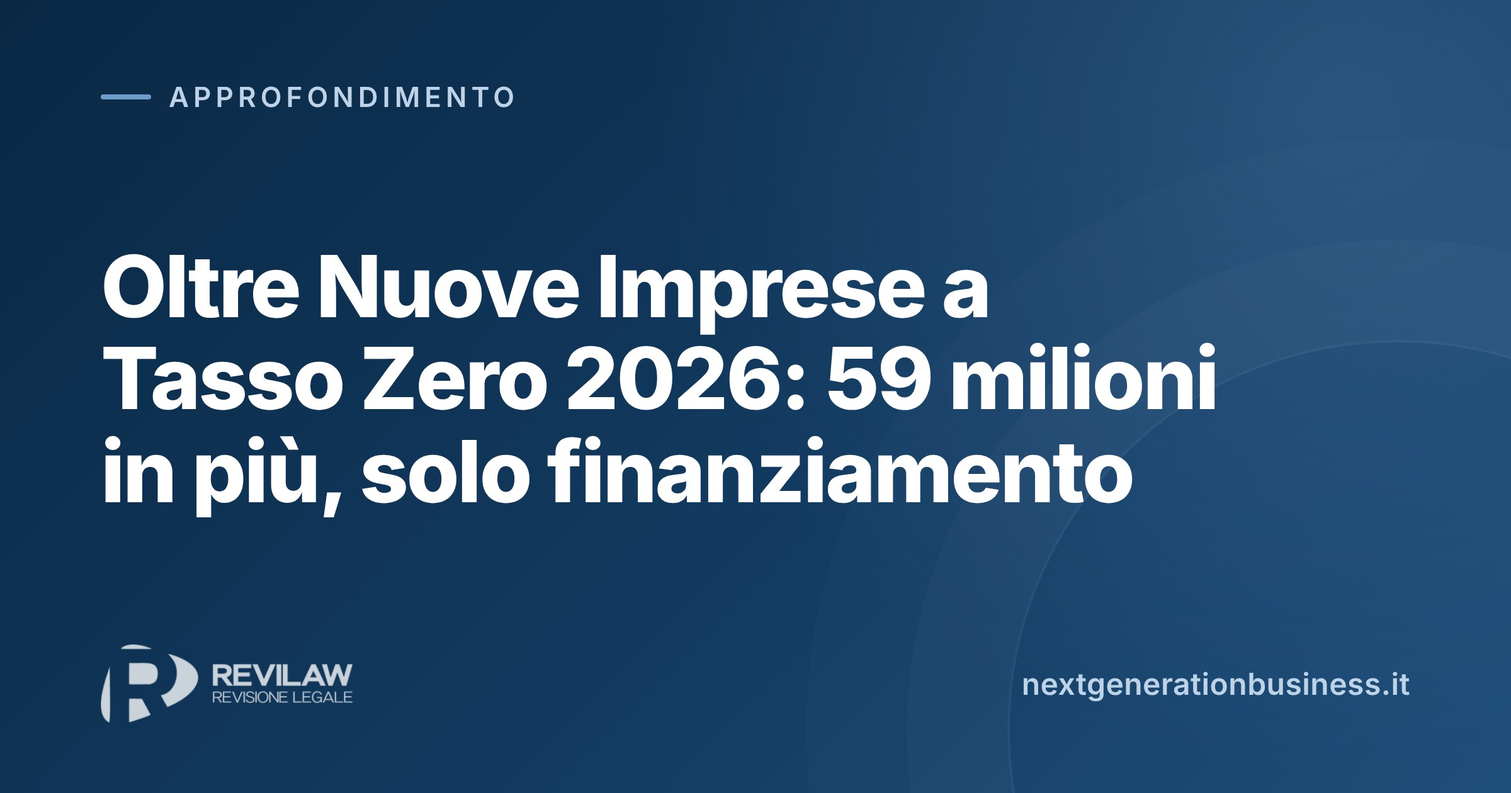
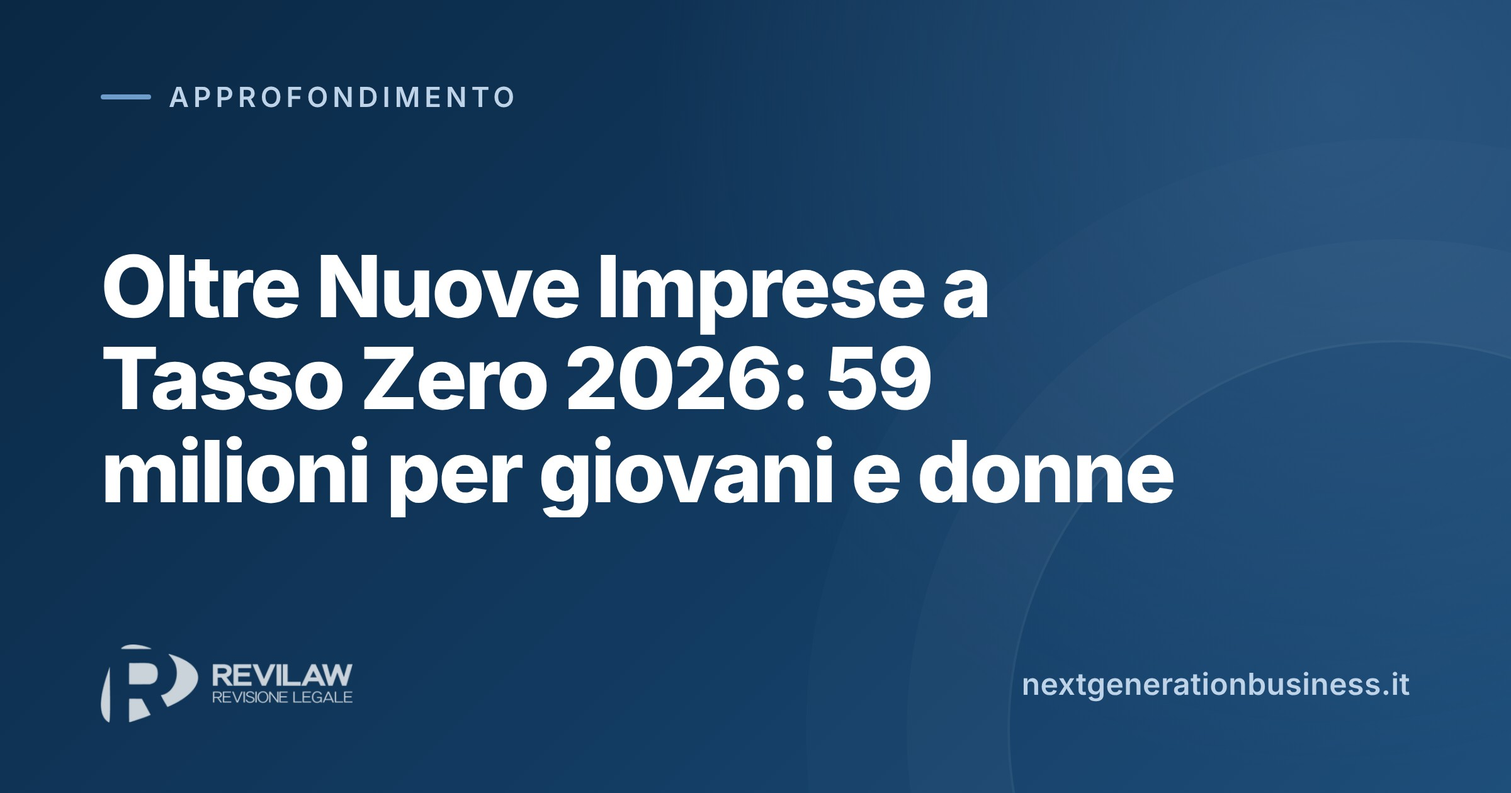
Nuove imprese a tasso zero: fondo perduto e finanziamento come nella comunicazione della misura (#336)
Su indicazione dello studio la pagina presenta il contributo a fondo
perduto fino al 20% (fino a 36 mesi) o al 15% (da 36 a 60 mesi), il
finanziamento a tasso zero per la parte restante fino al 90% e il
tutoraggio fino a 10.000 euro. Simulatore aggiornato: agevolazioni totali,
fondo perduto, finanziamento, quota propria e rata sul solo finanziamento.

Claude-Session: https://claude.ai/code/session_01NuT9L47JqPqb5h7wT782BG

Changed region(s): [[0.0625, 0.5262, 0.7812, 0.65], [0.625, 0.4333, 0.8125, 0.5262]]

diff --git a/nuove_imprese_tasso_zero/index.html b/nuove_imprese_tasso_zero/index.html
@@ -5,11 +5,11 @@
     <meta name="viewport" content="width=device-width, initial-scale=1.0">
 
     <!-- Primary Meta Tags -->
-    <title>Oltre Nuove Imprese a Tasso Zero 2026: 59 milioni in più, solo finanziamento | Revilaw</title>
+    <title>Oltre Nuove Imprese a Tasso Zero 2026: 59 milioni per giovani e donne | Revilaw</title>
     <script src="/assets/analytics.js" defer></script>
-    <meta name="title" content="Oltre Nuove Imprese a Tasso Zero 2026: 59 milioni in più, solo finanziamento | Revilaw">
-    <meta name="description" content="ON, Oltre Nuove Imprese a Tasso Zero: il MIMIT aggiunge 59 milioni, ma dal 1° luglio 2026 il fondo perduto è esaurito e resta il finanziamento a tasso zero fino al 90% delle spese. Requisiti per giovani e donne, attività, spese, domanda a sportello, simulatore e checklist.">
-    <meta name="keywords" content="Oltre Nuove Imprese a Tasso Zero, ON Invitalia, nuove imprese a tasso zero 2026, imprenditoria giovanile, imprenditoria femminile, finanziamento tasso zero, 59 milioni MIMIT, fondo perduto esaurito, Dlgs 185/2000, micro e piccole imprese, Revilaw, Next Generation Business">
+    <meta name="title" content="Oltre Nuove Imprese a Tasso Zero 2026: 59 milioni per giovani e donne | Revilaw">
+    <meta name="description" content="ON, Oltre Nuove Imprese a Tasso Zero: il MIMIT aggiunge 59 milioni. Finanziamento a tasso zero e contributo a fondo perduto fino al 90% delle spese per le micro e piccole imprese di giovani e donne. Requisiti, attività, spese, domanda a sportello, simulatore e checklist.">
+    <meta name="keywords" content="Oltre Nuove Imprese a Tasso Zero, ON Invitalia, nuove imprese a tasso zero 2026, imprenditoria giovanile, imprenditoria femminile, finanziamento tasso zero, 59 milioni MIMIT, fondo perduto, Dlgs 185/2000, micro e piccole imprese, Revilaw, Next Generation Business">
     <meta name="author" content="Revilaw S.p.A.">
     <meta name="robots" content="index, follow, max-image-preview:large, max-snippet:-1, max-video-preview:-1">
     <meta name="googlebot" content="index, follow">
@@ -25,21 +25,21 @@
     <meta property="og:type" content="article">
     <meta property="og:site_name" content="Next Generation Business">
     <meta property="og:url" content="https://nextgenerationbusiness.it/nuove_imprese_tasso_zero/">
-    <meta property="og:title" content="Oltre Nuove Imprese a Tasso Zero 2026: 59 milioni in più, solo finanziamento | Revilaw">
-    <meta property="og:description" content="Altri 59 milioni per le imprese di giovani e donne, ma dal 1° luglio 2026 il fondo perduto è esaurito: resta il finanziamento a tasso zero fino al 90% delle spese. Requisiti, spese e simulatore.">
-    <meta property="og:image" content="https://nextgenerationbusiness.it/assets/og/nuove_imprese_tasso_zero.jpg?v=3cae1b6819">
+    <meta property="og:title" content="Oltre Nuove Imprese a Tasso Zero 2026: 59 milioni per giovani e donne | Revilaw">
+    <meta property="og:description" content="Altri 59 milioni per le imprese di giovani e donne: finanziamento a tasso zero e fondo perduto fino al 20%, insieme fino al 90% delle spese. Requisiti, spese e simulatore.">
+    <meta property="og:image" content="https://nextgenerationbusiness.it/assets/og/nuove_imprese_tasso_zero.jpg?v=d974d470e5">
     <meta property="og:image:type" content="image/jpeg">
     <meta property="og:image:width" content="2400">
     <meta property="og:image:height" content="1260">
-    <meta property="og:image:alt" content="Oltre Nuove Imprese a Tasso Zero 2026: 59 milioni in più, solo finanziamento">
+    <meta property="og:image:alt" content="Oltre Nuove Imprese a Tasso Zero 2026: 59 milioni per giovani e donne">
     <meta property="og:locale" content="it_IT">
 
     <!-- Twitter Card -->
     <meta name="twitter:card" content="summary_large_image">
-    <meta name="twitter:title" content="Oltre Nuove Imprese a Tasso Zero 2026: 59 milioni in più, solo finanziamento | Revilaw">
-    <meta name="twitter:description" content="Altri 59 milioni per le imprese di giovani e donne, ma dal 1° luglio 2026 il fondo perduto è esaurito: resta il finanziamento a tasso zero fino al 90% delle spese. Requisiti, spese e simulatore.">
-    <meta name="twitter:image" content="https://nextgenerationbusiness.it/assets/og/nuove_imprese_tasso_zero.jpg?v=3cae1b6819">
-    <meta name="twitter:image:alt" content="Oltre Nuove Imprese a Tasso Zero 2026: 59 milioni in più, solo finanziamento">
+    <meta name="twitter:title" content="Oltre Nuove Imprese a Tasso Zero 2026: 59 milioni per giovani e donne | Revilaw">
+    <meta name="twitter:description" content="Altri 59 milioni per le imprese di giovani e donne: finanziamento a tasso zero e fondo perduto fino al 20%, insieme fino al 90% delle spese. Requisiti, spese e simulatore.">
+    <meta name="twitter:image" content="https://nextgenerationbusiness.it/assets/og/nuove_imprese_tasso_zero.jpg?v=d974d470e5">
+    <meta name="twitter:image:alt" content="Oltre Nuove Imprese a Tasso Zero 2026: 59 milioni per giovani e donne">
 
     <!-- Styles / Fonts -->
     <link rel="stylesheet" href="../zls_zes/style.css">
@@ -154,8 +154,8 @@
             {
                 "@type": "Article",
                 "@id": "https://nextgenerationbusiness.it/nuove_imprese_tasso_zero/#article",
-                "headline": "Oltre Nuove Imprese a Tasso Zero 2026: 59 milioni in più, ma dal 1° luglio solo finanziamento",
-                "description": "Requisiti, attività ammesse, linee di finanziamento, spese e domanda a sportello di ON, Oltre Nuove Imprese a Tasso Zero, dopo il rifinanziamento da 59 milioni e lo stop al fondo perduto.",
+                "headline": "Oltre Nuove Imprese a Tasso Zero 2026: 59 milioni per le imprese di giovani e donne",
+                "description": "Requisiti, attività ammesse, linee di finanziamento, spese e domanda a sportello di ON, Oltre Nuove Imprese a Tasso Zero, dopo il rifinanziamento da 59 milioni.",
                 "image": "https://nextgenerationbusiness.it/assets/og-revilaw-1200x630.jpg",
                 "inLanguage": "it-IT",
                 "author": { "@type": "Organization", "name": "Revilaw S.p.A.", "url": "https://www.revilaw.it" },
@@ -214,12 +214,12 @@
         <div class="hero-bg-overlay"></div>
         <div class="container hero-content">
             <div class="hero-badge">Finanza agevolata, imprenditoria giovanile e femminile</div>
-            <h1>Oltre Nuove Imprese a Tasso Zero<br><span class="text-accent">59 milioni in più, solo finanziamento</span></h1>
+            <h1>Oltre Nuove Imprese a Tasso Zero<br><span class="text-accent">59 milioni per giovani e donne</span></h1>
             <p class="hero-subtitle">
                 Il Mi&shy;ni&shy;ste&shy;ro delle Im&shy;pre&shy;se e del Made in Italy ha ag&shy;giun&shy;to 59 mi&shy;lio&shy;ni di euro alla mi&shy;su&shy;ra che so&shy;stie&shy;ne
-                le micro e pic&shy;co&shy;le im&shy;pre&shy;se di <strong>gio&shy;va&shy;ni tra 18 e 35 anni e di donne</strong>. C'è però una no&shy;vi&shy;tà
-                che molte co&shy;mu&shy;ni&shy;ca&shy;zio&shy;ni non ri&shy;por&shy;ta&shy;no: dal 1° lu&shy;glio 2026 la quota a fondo per&shy;du&shy;to è esau&shy;ri&shy;ta e le nuove
-                do&shy;man&shy;de ot&shy;ten&shy;go&shy;no <strong>solo il fi&shy;nan&shy;zia&shy;men&shy;to a tasso zero</strong>, fino al 90% delle spese.
+                le micro e pic&shy;co&shy;le im&shy;pre&shy;se di <strong>gio&shy;va&shy;ni tra 18 e 35 anni e di donne</strong>. Fi&shy;nan&shy;zia&shy;men&shy;to a tasso
+                zero e <strong>con&shy;tri&shy;bu&shy;to a fondo per&shy;du&shy;to</strong> co&shy;pro&shy;no in&shy;sie&shy;me fino al 90% delle spese, per av&shy;via&shy;re
+                una nuova im&shy;pre&shy;sa o far cre&shy;sce&shy;re quel&shy;la che c'è.
             </p>
             <div class="hero-actions">
                 <a href="#novita" class="btn btn-primary">Leggi l'approfondimento</a>
@@ -233,12 +233,12 @@
                 <div class="stat-divider"></div>
                 <div class="stat">
                     <span class="stat-number">90%</span>
-                    <span class="stat-label">Spese coperte dal finanziamento</span>
+                    <span class="stat-label">Spese coperte dalle agevolazioni</span>
                 </div>
                 <div class="stat-divider"></div>
                 <div class="stat">
-                    <span class="stat-number">0%</span>
-                    <span class="stat-label">Tasso, rimborso in 10 anni</span>
+                    <span class="stat-number">20%</span>
+                    <span class="stat-label">Fondo perduto per le imprese più giovani</span>
                 </div>
             </div>
         </div>
@@ -252,7 +252,7 @@
                     <span class="indice-etichetta">In sintesi</span>
                     <ul class="indice-punti">
                         <li>Un de&shy;cre&shy;to del 16 giu&shy;gno 2026, pub&shy;bli&shy;ca&shy;to il 12 ot&shy;to&shy;bre, as&shy;se&shy;gna <strong>59 mi&shy;lio&shy;ni</strong> in più alla mi&shy;su&shy;ra ge&shy;sti&shy;ta da In&shy;vi&shy;ta&shy;lia.</li>
-                        <li>Per le do&shy;man&shy;de pre&shy;sen&shy;ta&shy;te <strong>dal 1° lu&shy;glio 2026</strong> non c'è più fondo per&shy;du&shy;to: resta il fi&shy;nan&shy;zia&shy;men&shy;to a tasso zero, fino al 90% delle spese, da re&shy;sti&shy;tui&shy;re in dieci anni.</li>
+                        <li>Le age&shy;vo&shy;la&shy;zio&shy;ni co&shy;pro&shy;no fino al <strong>90% delle spese</strong>: un con&shy;tri&shy;bu&shy;to a fondo per&shy;du&shy;to fino al 20% o al 15%, e per il resto un fi&shy;nan&shy;zia&shy;men&shy;to a tasso zero da re&shy;sti&shy;tui&shy;re in dieci anni.</li>
                         <li>Pos&shy;so&shy;no par&shy;te&shy;ci&shy;pa&shy;re micro e pic&shy;co&shy;le im&shy;pre&shy;se con <strong>meno di 60 mesi di vita</strong>, in mag&shy;gio&shy;ran&shy;za di gio&shy;va&shy;ni tra 18 e 35 anni o di donne, e chi vuole co&shy;sti&shy;tui&shy;re una so&shy;cie&shy;tà.</li>
                         <li>Pro&shy;gram&shy;mi fino a <strong>1,5 mi&shy;lio&shy;ni</strong> per le im&shy;pre&shy;se più gio&shy;va&shy;ni e fino a <strong>3 mi&shy;lio&shy;ni</strong> per quel&shy;le tra 36 e 60 mesi, da com&shy;ple&shy;ta&shy;re in 24 mesi.</li>
                         <li>Lo spor&shy;tel&shy;lo va&shy;lu&shy;ta le do&shy;man&shy;de in or&shy;di&shy;ne di ar&shy;ri&shy;vo: conta pre&shy;sen&shy;tar&shy;si pre&shy;sto, con un piano d'im&shy;pre&shy;sa già so&shy;li&shy;do.</li>
@@ -261,7 +261,7 @@
                 <nav class="indice-blocco" aria-label="Sommario della pagina">
                     <span class="indice-etichetta">In questa pagina</span>
                     <ol class="indice-voci">
-                        <li><a href="#novita">Che cosa è cambiato</a></li>
+                        <li><a href="#novita">Le nuove risorse</a></li>
                         <li><a href="#beneficiari">Chi può partecipare</a></li>
                         <li><a href="#attivita">Che cosa si finanzia</a></li>
                         <li><a href="#linee">Le due linee e le spese</a></li>
@@ -283,11 +283,11 @@
         <div class="container">
             <div class="section-header">
                 <span class="section-tag">1. Le novità</span>
-                <h2>Più risorse, <span class="text-accent">ma senza fondo perduto</span></h2>
+                <h2>59 milioni in più <span class="text-accent">per tenere aperto lo sportello</span></h2>
                 <p class="section-desc">
                     Nel 2026 le do&shy;man&shy;de sono cre&shy;sciu&shy;te di oltre il 60 per cento ri&shy;spet&shy;to all'anno pre&shy;ce&shy;den&shy;te, fino a circa
-                    380 al mese. Le ri&shy;sor&shy;se non ba&shy;sta&shy;va&shy;no più: prima si è esau&shy;ri&shy;ta la quota a fondo per&shy;du&shy;to, poi è ar&shy;ri&shy;va&shy;to
-                    il ri&shy;fi&shy;nan&shy;zia&shy;men&shy;to per te&shy;ne&shy;re aper&shy;to lo spor&shy;tel&shy;lo.
+                    380 al mese. Le ri&shy;sor&shy;se di&shy;spo&shy;ni&shy;bi&shy;li non ba&shy;sta&shy;va&shy;no più a so&shy;ste&shy;ne&shy;re que&shy;sto ritmo: il Mi&shy;ni&shy;ste&shy;ro ha de&shy;ci&shy;so
+                    di ri&shy;fi&shy;nan&shy;zia&shy;re la mi&shy;su&shy;ra.
                 </p>
             </div>
 
@@ -298,28 +298,27 @@
                     <p>Il MIMIT firma il de&shy;cre&shy;to che as&shy;se&shy;gna 59 mi&shy;lio&shy;ni ag&shy;giun&shy;ti&shy;vi dal Fondo per la cre&shy;sci&shy;ta so&shy;ste&shy;ni&shy;bi&shy;le, at&shy;tin&shy;gen&shy;do agli avan&shy;zi del fondo 394/81 ge&shy;sti&shy;to da Si&shy;me&shy;st.</p>
                 </article>
                 <article class="crono-tappa">
-                    <span class="crono-data">30 giugno 2026</span>
-                    <span class="crono-stato">L'avviso</span>
-                    <p>In&shy;vi&shy;ta&shy;lia co&shy;mu&shy;ni&shy;ca l'esau&shy;ri&shy;men&shy;to delle ri&shy;sor&shy;se de&shy;sti&shy;na&shy;te alla quota a fondo per&shy;du&shy;to.</p>
-                </article>
-                <article class="crono-tappa is-prossima">
-                    <span class="crono-data">1° luglio 2026</span>
-                    <span class="crono-stato">Solo finanziamento</span>
-                    <p>Per le do&shy;man&shy;de pre&shy;sen&shy;ta&shy;te da que&shy;sta data le age&shy;vo&shy;la&shy;zio&shy;ni sono con&shy;ces&shy;se sol&shy;tan&shy;to come fi&shy;nan&shy;zia&shy;men&shy;to a tasso zero.</p>
-                </article>
-                <article class="crono-tappa">
                     <span class="crono-data">12 ottobre 2026</span>
                     <span class="crono-stato">La pubblicazione</span>
-                    <p>Il de&shy;cre&shy;to viene pub&shy;bli&shy;ca&shy;to. Non cam&shy;bia le re&shy;go&shy;le della mi&shy;su&shy;ra: au&shy;men&shy;ta solo le ri&shy;sor&shy;se dello spor&shy;tel&shy;lo.</p>
+                    <p>Il de&shy;cre&shy;to viene pub&shy;bli&shy;ca&shy;to. Le re&shy;go&shy;le della mi&shy;su&shy;ra re&shy;sta&shy;no le stes&shy;se: au&shy;men&shy;ta&shy;no le ri&shy;sor&shy;se dello spor&shy;tel&shy;lo ge&shy;sti&shy;to da In&shy;vi&shy;ta&shy;lia.</p>
+                </article>
+                <article class="crono-tappa is-prossima">
+                    <span class="crono-data">Oggi</span>
+                    <span class="crono-stato">Sportello aperto</span>
+                    <p>Le do&shy;man&shy;de si pre&shy;sen&shy;ta&shy;no on&shy;li&shy;ne e ven&shy;go&shy;no esa&shy;mi&shy;na&shy;te in or&shy;di&shy;ne di ar&shy;ri&shy;vo, senza gra&shy;dua&shy;to&shy;rie né sca&shy;den&shy;ze fisse.</p>
+                </article>
+                <article class="crono-tappa">
+                    <span class="crono-data">Fino a esaurimento</span>
+                    <span class="crono-stato">Le risorse</span>
+                    <p>Lo spor&shy;tel&shy;lo resta aper&shy;to fin&shy;ché ci sono fondi. Con circa 380 do&shy;man&shy;de al mese, chi è pron&shy;to ha in&shy;te&shy;res&shy;se a pre&shy;sen&shy;tar&shy;si pre&shy;sto.</p>
                 </article>
             </div>
 
             <div class="highlight-box">
                 <p>
-                    <strong>I conti vanno ri&shy;fat&shy;ti.</strong> Molte co&shy;mu&shy;ni&shy;ca&shy;zio&shy;ni par&shy;la&shy;no an&shy;co&shy;ra di un fondo per&shy;du&shy;to del 20 o
-                    del 15 per cento. Per le nuove do&shy;man&shy;de quel&shy;la parte non c'è: la quota che prima ve&shy;ni&shy;va re&shy;ga&shy;la&shy;ta oggi va
-                    re&shy;sti&shy;tui&shy;ta. Il fi&shy;nan&shy;zia&shy;men&shy;to resta con&shy;ve&shy;nien&shy;te, per&shy;ché senza in&shy;te&shy;res&shy;si, ma il piano d'im&shy;pre&shy;sa deve
-                    reg&shy;ge&shy;re l'in&shy;te&shy;ro rim&shy;bor&shy;so.
+                    <strong>Due age&shy;vo&shy;la&shy;zio&shy;ni in una.</strong> Una parte delle spese è co&shy;per&shy;ta da un con&shy;tri&shy;bu&shy;to a fondo
+                    per&shy;du&shy;to, che non si re&shy;sti&shy;tui&shy;sce, e il resto da un fi&shy;nan&shy;zia&shy;men&shy;to senza in&shy;te&shy;res&shy;si in dieci anni. In&shy;sie&shy;me
+                    ar&shy;ri&shy;va&shy;no al 90 per cento del pro&shy;gram&shy;ma: ai soci resta da co&shy;pri&shy;re al&shy;me&shy;no il 10 per cento.
                 </p>
             </div>
         </div>
@@ -419,7 +418,7 @@
                 <span class="section-tag">4. Le due linee</span>
                 <h2>Fino a 36 mesi <span class="text-accent">o da 36 a 60 mesi</span></h2>
                 <p class="section-desc">
-                    Mas&shy;si&shy;ma&shy;li e spese am&shy;mes&shy;se cam&shy;bia&shy;no a se&shy;con&shy;da di quan&shy;to è gio&shy;va&shy;ne l'im&shy;pre&shy;sa. Il fi&shy;nan&shy;zia&shy;men&shy;to è
+                    Mas&shy;si&shy;ma&shy;li, quota a fondo per&shy;du&shy;to e spese am&shy;mes&shy;se cam&shy;bia&shy;no a se&shy;con&shy;da di quan&shy;to è gio&shy;va&shy;ne l'im&shy;pre&shy;sa. Il fi&shy;nan&shy;zia&shy;men&shy;to è
                     senza in&shy;te&shy;res&shy;si, si re&shy;sti&shy;tui&shy;sce in dieci anni con rate se&shy;me&shy;stra&shy;li e il pro&shy;gram&shy;ma va com&shy;ple&shy;ta&shy;to entro
                     24 mesi dalla firma del con&shy;trat&shy;to.
                 </p>
@@ -438,13 +437,13 @@
                 </div>
                 <div class="tabella-riga" role="row">
                     <div class="tabella-voce" role="rowheader">Finanziamento a tasso zero</div>
-                    <div data-label="Da costituire o fino a 36 mesi" role="cell">Fino al 90% delle spese am&shy;mes&shy;se, in dieci anni.</div>
-                    <div data-label="Da 36 a 60 mesi" role="cell">Fino al 90% delle spese am&shy;mes&shy;se, in dieci anni.</div>
+                    <div data-label="Da costituire o fino a 36 mesi" role="cell">Copre la parte re&shy;stan&shy;te, fino al 90% com&shy;ples&shy;si&shy;vo, in dieci anni.</div>
+                    <div data-label="Da 36 a 60 mesi" role="cell">Copre la parte re&shy;stan&shy;te, fino al 90% com&shy;ples&shy;si&shy;vo, in dieci anni.</div>
                 </div>
                 <div class="tabella-riga" role="row">
-                    <div class="tabella-voce" role="rowheader">Fondo perduto fino al 30 giugno 2026</div>
-                    <div data-label="Da costituire o fino a 36 mesi" role="cell">Fino al 20% delle spese, oggi non più di&shy;spo&shy;ni&shy;bi&shy;le.</div>
-                    <div data-label="Da 36 a 60 mesi" role="cell">Fino al 15% delle spese, oggi non più di&shy;spo&shy;ni&shy;bi&shy;le.</div>
+                    <div class="tabella-voce" role="rowheader">Contributo a fondo perduto</div>
+                    <div data-label="Da costituire o fino a 36 mesi" role="cell">Fino al 20% delle spese am&shy;mes&shy;se.</div>
+                    <div data-label="Da 36 a 60 mesi" role="cell">Fino al 15% delle spese am&shy;mes&shy;se.</div>
                 </div>
                 <div class="tabella-riga" role="row">
                     <div class="tabella-voce" role="rowheader">Spese tipiche</div>
@@ -463,9 +462,9 @@
 
             <div class="detail-block">
                 <p>
-                    <strong>Il tu&shy;to&shy;rag&shy;gio.</strong> La mi&shy;su&shy;ra pre&shy;ve&shy;de&shy;va anche un con&shy;tri&shy;bu&shy;to a fondo per&shy;du&shy;to fino a 10.000
-                    euro, in re&shy;gi&shy;me de mi&shy;ni&shy;mis, per ser&shy;vi&shy;zi di tu&shy;to&shy;rag&shy;gio tec&shy;ni&shy;co e ge&shy;stio&shy;na&shy;le. Poi&shy;ché anche que&shy;sto con&shy;tri&shy;bu&shy;to è a fondo per&shy;du&shy;to, per le do&shy;man&shy;de pre&shy;sen&shy;ta&shy;te dopo il 1° lu&shy;glio 2026 la sua di&shy;spo&shy;ni&shy;bi&shy;li&shy;tà va ve&shy;ri&shy;fi&shy;ca&shy;ta con
-                    In&shy;vi&shy;ta&shy;lia caso per caso.
+                    <strong>In più, il tu&shy;to&shy;rag&shy;gio.</strong> Alle due age&shy;vo&shy;la&shy;zio&shy;ni si ag&shy;giun&shy;ge un con&shy;tri&shy;bu&shy;to a fondo per&shy;du&shy;to
+                    fino a 10.000 euro, in re&shy;gi&shy;me de mi&shy;ni&shy;mis, per ser&shy;vi&shy;zi di tu&shy;to&shy;rag&shy;gio tec&shy;ni&shy;co e ge&shy;stio&shy;na&shy;le: un
+                    af&shy;fian&shy;ca&shy;men&shy;to utile so&shy;prat&shy;tut&shy;to nei primi anni di at&shy;ti&shy;vi&shy;tà.
                 </p>
             </div>
         </div>
@@ -478,9 +477,8 @@
                 <span class="section-tag">5. Il simulatore</span>
                 <h2>Quanto potete ottenere <span class="text-accent">e quanto restituire</span></h2>
                 <p class="section-desc">
-                    In&shy;di&shy;ca&shy;te l'età dell'im&shy;pre&shy;sa e il va&shy;lo&shy;re del pro&shy;gram&shy;ma di spesa. Il cal&shy;co&shy;lo ap&shy;pli&shy;ca le re&shy;go&shy;le in vi&shy;go&shy;re
-                    per le do&shy;man&shy;de pre&shy;sen&shy;ta&shy;te dal 1° lu&shy;glio 2026 e mo&shy;stra che cosa sa&shy;reb&shy;be stato a fondo per&shy;du&shy;to con le
-                    re&shy;go&shy;le pre&shy;ce&shy;den&shy;ti.
+                    In&shy;di&shy;ca&shy;te l'età dell'im&shy;pre&shy;sa e il va&shy;lo&shy;re del pro&shy;gram&shy;ma di spesa. Il cal&shy;co&shy;lo di&shy;vi&shy;de le age&shy;vo&shy;la&shy;zio&shy;ni tra
+                    con&shy;tri&shy;bu&shy;to a fondo per&shy;du&shy;to e fi&shy;nan&shy;zia&shy;men&shy;to a tasso zero, e stima la rata da re&shy;sti&shy;tui&shy;re.
                 </p>
             </div>
 
@@ -505,13 +503,14 @@
                 </div>
                 <div class="sim-output" aria-live="polite">
                     <div class="sim-output-inner">
-                        <span class="sim-totale-label">Finanziamento a tasso zero</span>
-                        <span class="sim-totale" id="simFin">0 euro</span>
+                        <span class="sim-totale-label">Agevolazioni totali</span>
+                        <span class="sim-totale" id="simTot">0 euro</span>
                         <div class="sim-barra" aria-hidden="true"><span id="simBar"></span></div>
-                        <div class="sim-riga"><span>Spese considerate</span><strong id="simAmm">0 euro</strong></div>
+                        <div class="sim-riga"><span>Contributo a fondo perduto</span><strong id="simFp">0 euro</strong></div>
+                        <div class="sim-riga"><span>Finanziamento a tasso zero</span><strong id="simFin">0 euro</strong></div>
                         <div class="sim-riga"><span>A carico dell'impresa</span><strong id="simPropri">0 euro</strong></div>
                         <div class="sim-riga"><span>Rata semestrale per 20 rate</span><strong id="simRata">0 euro</strong></div>
-                        <div class="sim-riga"><span>Fondo perduto fino al 30 giugno</span><strong id="simFp">0 euro</strong></div>
+                        <div class="sim-riga"><span>Tutoraggio a fondo perduto</span><strong>fino a 10.000 euro</strong></div>
                         <div class="sim-esito" id="simEsito"></div>
                         <p class="sim-avviso">Stima in&shy;di&shy;ca&shy;ti&shy;va: l'im&shy;por&shy;to ef&shy;fet&shy;ti&shy;vo di&shy;pen&shy;de dalle spese ri&shy;co&shy;no&shy;sciu&shy;te am&shy;mis&shy;si&shy;bi&shy;li da In&shy;vi&shy;ta&shy;lia, dalla va&shy;lu&shy;ta&shy;zio&shy;ne del piano d'im&shy;pre&shy;sa e dalle ri&shy;sor&shy;se di&shy;spo&shy;ni&shy;bi&shy;li allo spor&shy;tel&shy;lo.</p>
                     </div>
@@ -594,7 +593,7 @@
                     <span class="ck-gruppo">Sostenibilità</span>
                     <label class="ck-voce"><input type="checkbox" data-area="Sostenibilità" data-voce="Piano d'impresa completo"><span><strong>Piano.</strong> Il piano d'im&shy;pre&shy;sa de&shy;scri&shy;ve mer&shy;ca&shy;to, soci, ri&shy;ca&shy;vi at&shy;te&shy;si e or&shy;ga&shy;niz&shy;za&shy;zio&shy;ne.</span></label>
                     <label class="ck-voce"><input type="checkbox" data-area="Sostenibilità" data-voce="Quota del 10% coperta con mezzi propri"><span><strong>Mezzi pro&shy;pri.</strong> Al&shy;me&shy;no il 10 per cento delle spese è co&shy;per&shy;to con ri&shy;sor&shy;se dei soci.</span></label>
-                    <label class="ck-voce"><input type="checkbox" data-area="Sostenibilità" data-voce="Rate sostenibili senza fondo perduto"><span><strong>Rim&shy;bor&shy;so.</strong> I flus&shy;si di cassa co&shy;pro&shy;no tutte le rate, senza con&shy;ta&shy;re su un fondo per&shy;du&shy;to.</span></label>
+                    <label class="ck-voce"><input type="checkbox" data-area="Sostenibilità" data-voce="Rate del finanziamento sostenibili"><span><strong>Rim&shy;bor&shy;so.</strong> I flus&shy;si di cassa co&shy;pro&shy;no tutte le rate del fi&shy;nan&shy;zia&shy;men&shy;to nei dieci anni.</span></label>
                     <label class="ck-voce"><input type="checkbox" data-area="Sostenibilità" data-voce="Liquidità per anticipare le spese"><span><strong>Li&shy;qui&shy;di&shy;tà.</strong> L'im&shy;pre&shy;sa può an&shy;ti&shy;ci&shy;pa&shy;re le spese in at&shy;te&shy;sa delle ero&shy;ga&shy;zio&shy;ni.</span></label>
                 </div>
                 <div class="ck-esito" aria-live="polite">
@@ -635,12 +634,12 @@
             <div class="faq-list">
                 <div class="faq-item">
                     <button class="faq-question" type="button">
-                        <span>Con i 59 milioni torna il fondo perduto?</span>
+                        <span>Quanta parte è a fondo perduto?</span>
                         <svg viewBox="0 0 24 24" fill="none" stroke="currentColor" stroke-width="2" stroke-linecap="round" stroke-linejoin="round"><polyline points="6 9 12 15 18 9"></polyline></svg>
                     </button>
                     <div class="faq-answer">
                         <div class="faq-answer-inner">
-                            Allo stato no. Il de&shy;cre&shy;to au&shy;men&shy;ta le ri&shy;sor&shy;se dello spor&shy;tel&shy;lo ma non mo&shy;di&shy;fi&shy;ca le re&shy;go&shy;le: per le do&shy;man&shy;de pre&shy;sen&shy;ta&shy;te dal 1° lu&shy;glio 2026 In&shy;vi&shy;ta&shy;lia con&shy;ce&shy;de sol&shy;tan&shy;to il fi&shy;nan&shy;zia&shy;men&shy;to a tasso zero. Even&shy;tua&shy;li nuove ri&shy;sor&shy;se per il fondo per&shy;du&shy;to ri&shy;chie&shy;de&shy;reb&shy;be&shy;ro un prov&shy;ve&shy;di&shy;men&shy;to spe&shy;ci&shy;fi&shy;co.
+                            Fino al 20 per cento delle spese am&shy;mes&shy;se per le im&shy;pre&shy;se da co&shy;sti&shy;tui&shy;re o con meno di 36 mesi, e fino al 15 per cento per quel&shy;le tra 36 e 60 mesi. Il resto, fino al 90 per cento com&shy;ples&shy;si&shy;vo, è un fi&shy;nan&shy;zia&shy;men&shy;to a tasso zero. In più c'è un con&shy;tri&shy;bu&shy;to fino a 10.000 euro per il tu&shy;to&shy;rag&shy;gio.
                         </div>
                     </div>
                 </div>
@@ -662,7 +661,7 @@
                     </button>
                     <div class="faq-answer">
                         <div class="faq-answer-inner">
-                            Si re&shy;sti&shy;tui&shy;sce esat&shy;ta&shy;men&shy;te la somma ri&shy;ce&shy;vu&shy;ta, senza in&shy;te&shy;res&shy;si, in dieci anni con rate se&shy;me&shy;stra&shy;li. Su un fi&shy;nan&shy;zia&shy;men&shy;to di 270.000 euro, per esem&shy;pio, ogni rata vale 13.500 euro. Il si&shy;mu&shy;la&shy;to&shy;re in que&shy;sta pa&shy;gi&shy;na fa il cal&shy;co&shy;lo sul vo&shy;stro pro&shy;gram&shy;ma.
+                            Va re&shy;sti&shy;tui&shy;to sol&shy;tan&shy;to il fi&shy;nan&shy;zia&shy;men&shy;to, senza in&shy;te&shy;res&shy;si, in dieci anni con rate se&shy;me&shy;stra&shy;li, men&shy;tre il con&shy;tri&shy;bu&shy;to a fondo per&shy;du&shy;to resta all'im&shy;pre&shy;sa. Con un pro&shy;gram&shy;ma di 300.000 euro di un'im&shy;pre&shy;sa gio&shy;va&shy;ne il fi&shy;nan&shy;zia&shy;men&shy;to è di 210.000 euro e ogni rata vale 10.500 euro. Il si&shy;mu&shy;la&shy;to&shy;re in que&shy;sta pa&shy;gi&shy;na fa il cal&shy;co&shy;lo sul vo&shy;stro pro&shy;gram&shy;ma.
                         </div>
                     </div>
                 </div>
@@ -679,12 +678,12 @@
                 </div>
                 <div class="faq-item">
                     <button class="faq-question" type="button">
-                        <span>Conviene ancora, senza fondo perduto?</span>
+                        <span>Perché conviene presentare presto la domanda?</span>
                         <svg viewBox="0 0 24 24" fill="none" stroke="currentColor" stroke-width="2" stroke-linecap="round" stroke-linejoin="round"><polyline points="6 9 12 15 18 9"></polyline></svg>
                     </button>
                     <div class="faq-answer">
                         <div class="faq-answer-inner">
-                            Spes&shy;so sì. Un fi&shy;nan&shy;zia&shy;men&shy;to senza in&shy;te&shy;res&shy;si, fino al 90 per cento delle spese e in dieci anni, resta dif&shy;fi&shy;ci&shy;le da ot&shy;te&shy;ne&shy;re sul mer&shy;ca&shy;to per un'im&shy;pre&shy;sa gio&shy;va&shy;ne. La con&shy;di&shy;zio&shy;ne è che il piano regga il rim&shy;bor&shy;so in&shy;te&shy;gra&shy;le: per que&shy;sto va co&shy;strui&shy;to con pru&shy;den&shy;za sui ri&shy;ca&shy;vi e sui tempi di avvio.
+                            Per&shy;ché lo spor&shy;tel&shy;lo va&shy;lu&shy;ta le do&shy;man&shy;de in or&shy;di&shy;ne di ar&shy;ri&shy;vo fino a esau&shy;ri&shy;men&shy;to delle ri&shy;sor&shy;se, e nel 2026 ne ar&shy;ri&shy;va&shy;no circa 380 al mese. Pre&shy;sen&shy;tar&shy;si pre&shy;sto conta, ma con un piano so&shy;li&shy;do: una do&shy;man&shy;da in&shy;com&shy;ple&shy;ta ri&shy;schia di es&shy;se&shy;re re&shy;spin&shy;ta e di far per&shy;de&shy;re il posto.
                         </div>
                     </div>
                 </div>
@@ -704,8 +703,7 @@
                 <ul class="ref-list">
                     <li><span>De&shy;cre&shy;to le&shy;gi&shy;sla&shy;ti&shy;vo 21 apri&shy;le 2000, n. 185, ti&shy;to&shy;lo I, sull'au&shy;toim&shy;pren&shy;di&shy;to&shy;ria&shy;li&shy;tà, e di&shy;sci&shy;pli&shy;na at&shy;tua&shy;ti&shy;va della mi&shy;su&shy;ra ON</span></li>
                     <li><span>De&shy;cre&shy;to del Mi&shy;ni&shy;ste&shy;ro delle Im&shy;pre&shy;se e del Made in Italy del 16 giu&shy;gno 2026, pub&shy;bli&shy;ca&shy;to il 12 ot&shy;to&shy;bre 2026, sulle ri&shy;sor&shy;se ag&shy;giun&shy;ti&shy;ve di 59 mi&shy;lio&shy;ni di euro</span></li>
-                    <li><span>In&shy;vi&shy;ta&shy;lia, av&shy;vi&shy;so del 30 giu&shy;gno 2026: per le do&shy;man&shy;de dal 1° lu&shy;glio 2026 age&shy;vo&shy;la&shy;zio&shy;ni con&shy;ces&shy;se solo come fi&shy;nan&shy;zia&shy;men&shy;to age&shy;vo&shy;la&shy;to</span></li>
-                    <li><span>Rac&shy;co&shy;man&shy;da&shy;zio&shy;ne 2003/361/CE sulla de&shy;fi&shy;ni&shy;zio&shy;ne di micro, pic&shy;co&shy;le e medie im&shy;pre&shy;se</span></li>
+                                        <li><span>Rac&shy;co&shy;man&shy;da&shy;zio&shy;ne 2003/361/CE sulla de&shy;fi&shy;ni&shy;zio&shy;ne di micro, pic&shy;co&shy;le e medie im&shy;pre&shy;se</span></li>
                     <li><span>Re&shy;go&shy;la&shy;men&shy;to (UE) 2023/2831 sugli aiuti de mi&shy;ni&shy;mis</span></li>
                 </ul>
             </div>
@@ -818,7 +816,7 @@
     <script>
     (function () {
         'use strict';
-        // Simulatore del finanziamento: regole per le domande dal 1 luglio 2026.
+        // Simulatore delle agevolazioni: fondo perduto e finanziamento a tasso zero fino al 90%.
         var sim = document.getElementById('sim');
         if (!sim) return;
         var LINEE = [
@@ -836,13 +834,15 @@
             var linea = LINEE[eta];
             var spese = leggi();
             var amm = Math.min(spese, linea.max);
-            var fin = amm * 0.9;
+            var tot = amm * 0.9;
+            var fp = amm * linea.fp;
+            var fin = tot - fp;
+            scrivi('simTot', euro(tot));
+            scrivi('simFp', euro(fp));
             scrivi('simFin', euro(fin));
-            scrivi('simAmm', euro(amm));
-            scrivi('simPropri', euro(spese - fin));
+            scrivi('simPropri', euro(spese - tot));
             scrivi('simRata', euro(fin / 20));
-            scrivi('simFp', 'fino a ' + euro(amm * linea.fp));
-            document.getElementById('simBar').style.width = (spese ? fin / spese * 100 : 0) + '%';
+            document.getElementById('simBar').style.width = (spese ? tot / spese * 100 : 0) + '%';
             var esito = document.getElementById('simEsito');
             var titolo = document.createElement('strong');
             var testo = document.createElement('span');
@@ -858,7 +858,7 @@
             } else {
                 esito.className = 'sim-esito is-ok';
                 titolo.textContent = 'Entro il massimale';
-                testo.textContent = 'Senza fondo perduto, la somma ricevuta si restituisce per intero: ' + euro(fin / 20) + ' ogni sei mesi per dieci anni.';
+                testo.textContent = euro(fp) + ' a fondo perduto, che non si restituiscono, e ' + euro(fin / 20) + ' di rata ogni sei mesi per dieci anni sul finanziamento.';
             }
             esito.appendChild(titolo);
             esito.appendChild(testo);
@@ -882,7 +882,7 @@
         var LIVELLI = [
             { min: 10, cls: 'ok', titolo: 'Pronti per lo sportello', testo: 'Requisiti, progetto e sostenibilità sono in ordine. Conviene chiudere le ultime voci e presentare la domanda il prima possibile.' },
             { min: 6, cls: 'medio', titolo: 'Domanda da completare', testo: 'Le basi ci sono, ma alcune voci potrebbero rallentare la valutazione o farla fallire. Meglio sistemarle prima di presentarsi allo sportello.' },
-            { min: 0, cls: 'ko', titolo: 'Progetto da impostare', testo: 'Prima della domanda servono la verifica della compagine e un piano che regga il rimborso integrale, senza fondo perduto.' }
+            { min: 0, cls: 'ko', titolo: 'Progetto da impostare', testo: 'Prima della domanda servono la verifica della compagine e un piano che regga il rimborso del finanziamento.' }
         ];
         function aggiorna() {
             var fatte = voci.filter(function (v) { return v.checked; });

diff --git a/approfondimenti/index.html b/approfondimenti/index.html
@@ -468,7 +468,7 @@
                             <ul>
                                 <li><a href="../nuove_imprese_tasso_zero/" data-badge="Novità" data-tag="oltre nuove imprese a tasso zero on invitalia mimit giovani donne imprenditoria giovanile femminile finanziamento tasso zero startup">
                                     <span class="mappa-titolo">Oltre Nuove Imprese a Tasso Zero: 59 milioni in più</span>
-                                    <span class="mappa-desc">Per imprese di giovani e donne fino a 60 mesi: finanziamento a tasso zero fino al 90%, fondo perduto esaurito dal 1° luglio 2026. Con simulatore.</span>
+                                    <span class="mappa-desc">Per imprese di giovani e donne fino a 60 mesi: fondo perduto e finanziamento a tasso zero fino al 90% delle spese. Con simulatore.</span>
                                 </a></li>
                                 <li><a href="../voucher_digitalizzazione_lazio_2026/" data-badge="Novità" data-tag="voucher digitalizzazione lazio innova gecoweb fesr fondo perduto diagnosi digitale innovation manager cloud cybersecurity e-commerce digital workplace">
                                     <span class="mappa-titolo">Voucher Digitalizzazione PMI 2026 della Regione Lazio</span>

diff --git a/index.html b/index.html
@@ -452,7 +452,7 @@
                     <a href="nuove_imprese_tasso_zero/" class="content-card is-featured" data-category="bandi-nazionali">
                         <div class="content-card-body">
                             <span class="content-tag">Bandi Nazionali<span class="content-badge">Novità</span></span>
-                            <h3 class="content-title">Nuove imprese a tasso zero: 59 milioni in più, ma il fondo perduto è esaurito</h3>
+                            <h3 class="content-title">Nuove imprese a tasso zero: 59 milioni per giovani e donne, con fondo perduto e finanziamento</h3>
                         </div>
                     </a>
                     <a href="sostenibilita_certificazioni_iso/" class="content-card is-featured" data-category="esg">
